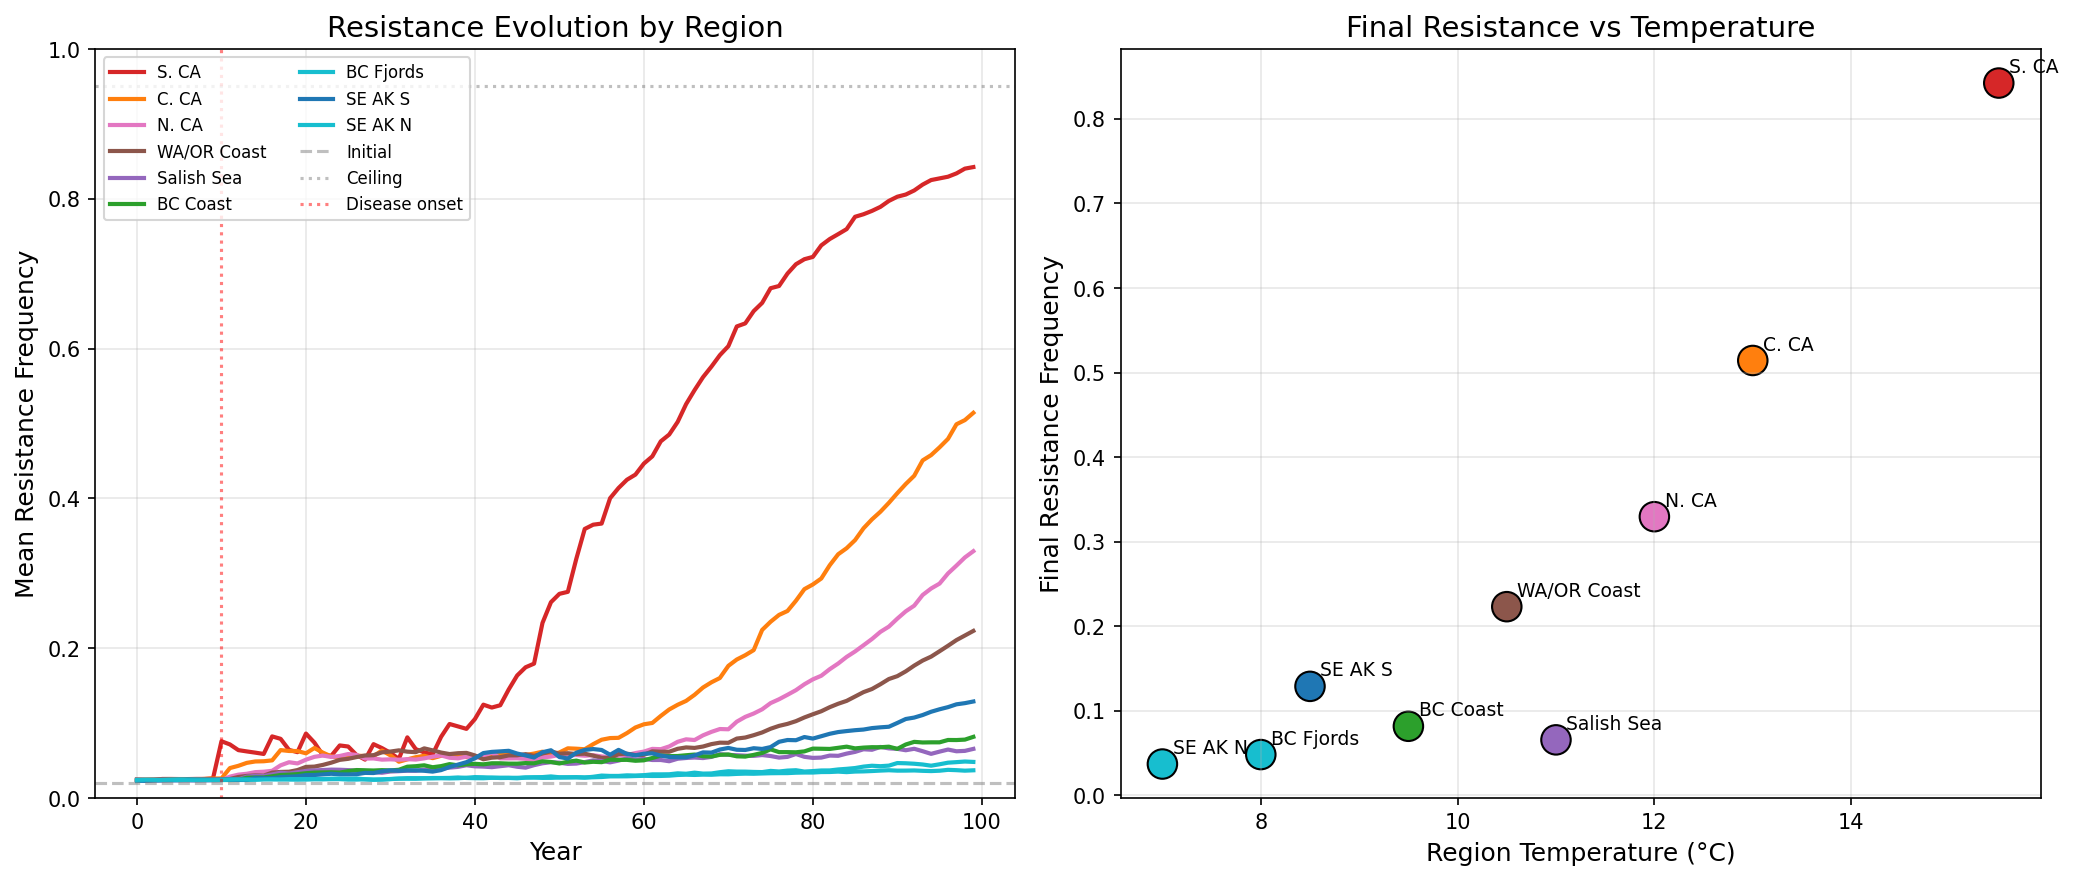
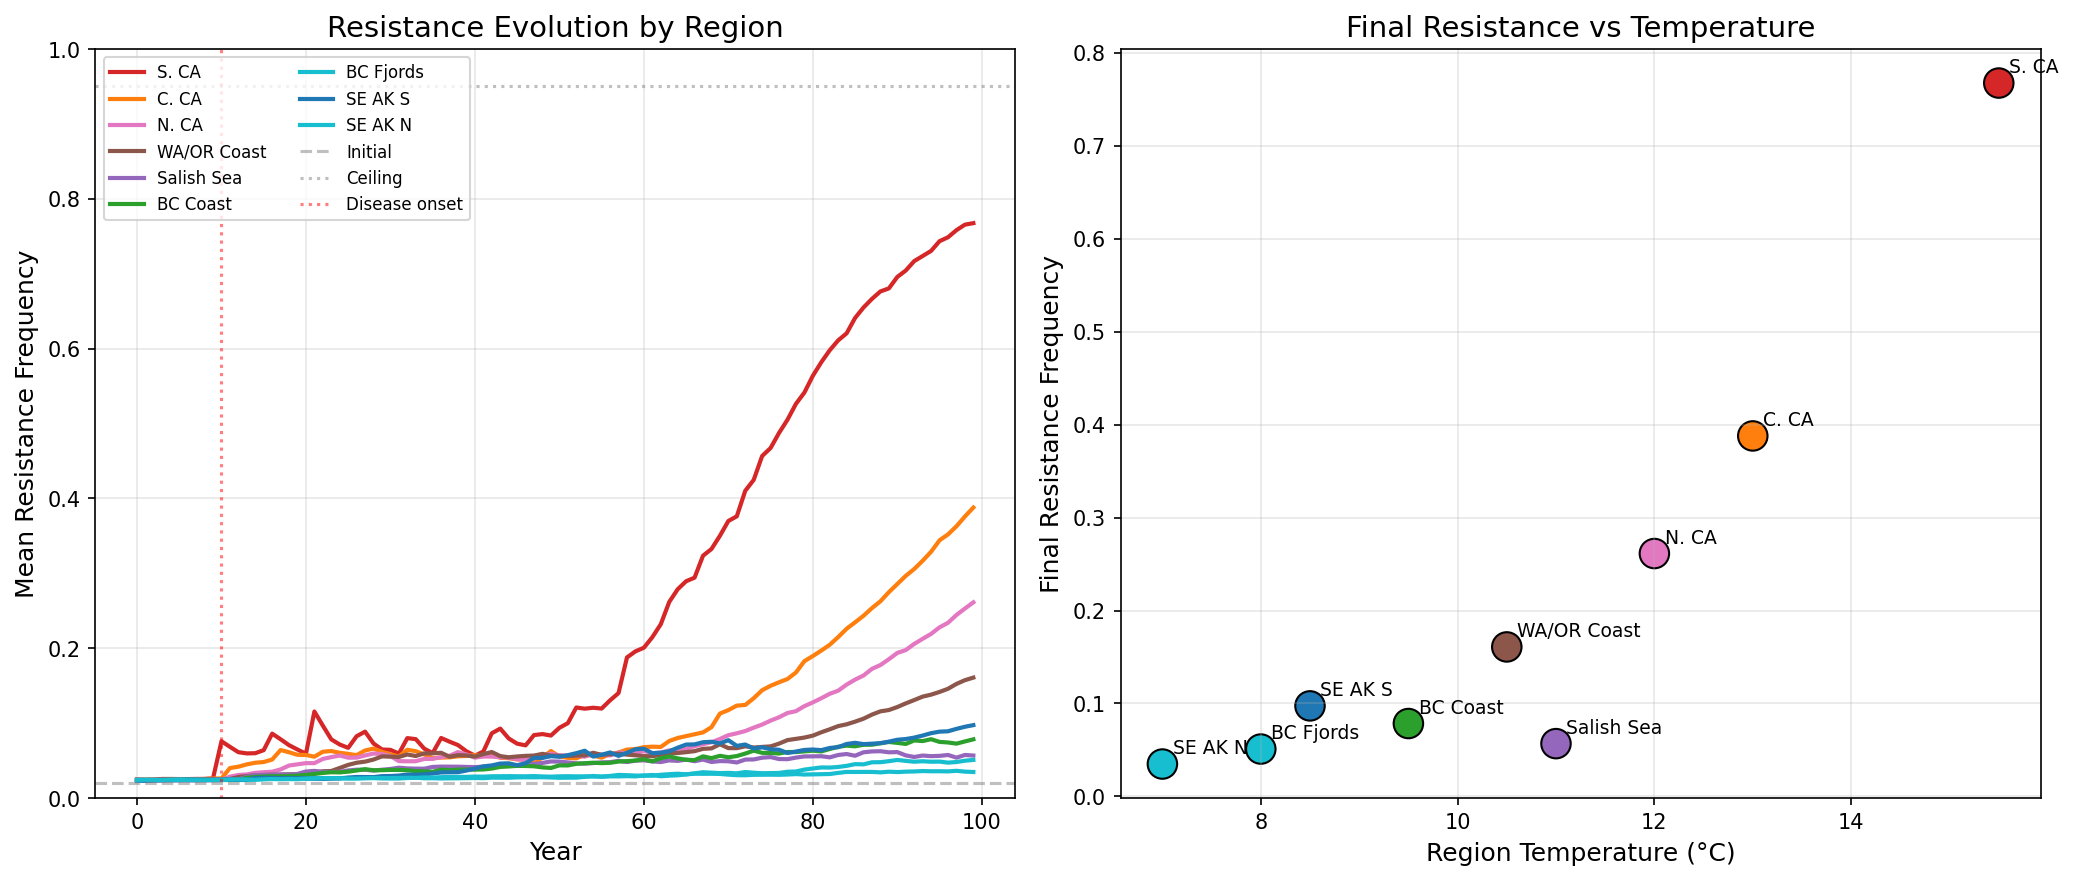
feat: density-dependent disease dynamics (emergent prevalence, not artificial floor)
Disease prevalence now emerges from host density + neighbor transmission + temperature.
When populations crash, disease naturally declines (fewer contacts).
Based on Hamilton et al. 2021 ground truth data.

diff --git a/pycnopodia/pacific_coast.py b/pycnopodia/pacific_coast.py
@@ -883,23 +883,43 @@ class PacificCoastSimulation:
                     if self.rng.random() < infection_prob:
                         new_prevalence[i] = 0.80 + self.rng.uniform(0, 0.15)
                 else:
-                    # Decay toward endemic level
-                    # After acute phase, disease drops rapidly
-                    years_since_onset = year - self.config.disease_onset_year
+                    # Density-dependent disease dynamics
+                    # Disease prevalence sustained by host density + transmission
+                    # When hosts crash, disease naturally declines (fewer contacts)
+                    current = self.disease_prevalence[i]
+                    
+                    # Host density relative to carrying capacity
+                    density_ratio = self.populations[i] / max(self.initial_populations[i], 1)
+                    
+                    # Transmission from neighbors (reverberation)
+                    neighbor_pressure = 0.0
+                    for j in range(self.n_sites):
+                        if j != i and self.disease_prevalence[j] > 0.01:
+                            neighbor_pressure += (
+                                self.disease_connectivity[j, i] *
+                                self.disease_prevalence[j] *
+                                0.3  # neighbor contribution weight
+                            )
+                    
+                    # Temperature effect
                     temp_mod = get_temperature_spread_modifier(
                         self.temperatures[i], self.config
                     )
-                    endemic = self.config.disease_endemic_prevalence * temp_mod
-                    current = self.disease_prevalence[i]
                     
-                    if years_since_onset <= self.config.disease_acute_years:
-                        # During acute phase: slow decay (disease raging)
-                        decay_rate = 0.3
-                    else:
-                        # Post-acute: disease subsides rapidly
-                        decay_rate = 0.7
+                    # Equilibrium prevalence emerges from:
+                    # - local host density (more hosts = more transmission)
+                    # - neighbor transmission pressure
+                    # - temperature
+                    # R0 analog: disease sustains when density * temp > threshold
+                    sustained_prevalence = (
+                        density_ratio * temp_mod * 0.4 +  # local density-dependent
+                        neighbor_pressure * 0.3            # neighbor reverberation
+                    )
+                    sustained_prevalence = min(sustained_prevalence, 0.90)
                     
-                    target = endemic + (current - endemic) * (1 - decay_rate)
+                    # Decay toward density-driven equilibrium
+                    decay_rate = 0.5
+                    target = sustained_prevalence + (current - sustained_prevalence) * (1 - decay_rate)
                     new_prevalence[i] = np.clip(
                         target + self.rng.normal(0, 0.01),
                         0.0, 0.95
